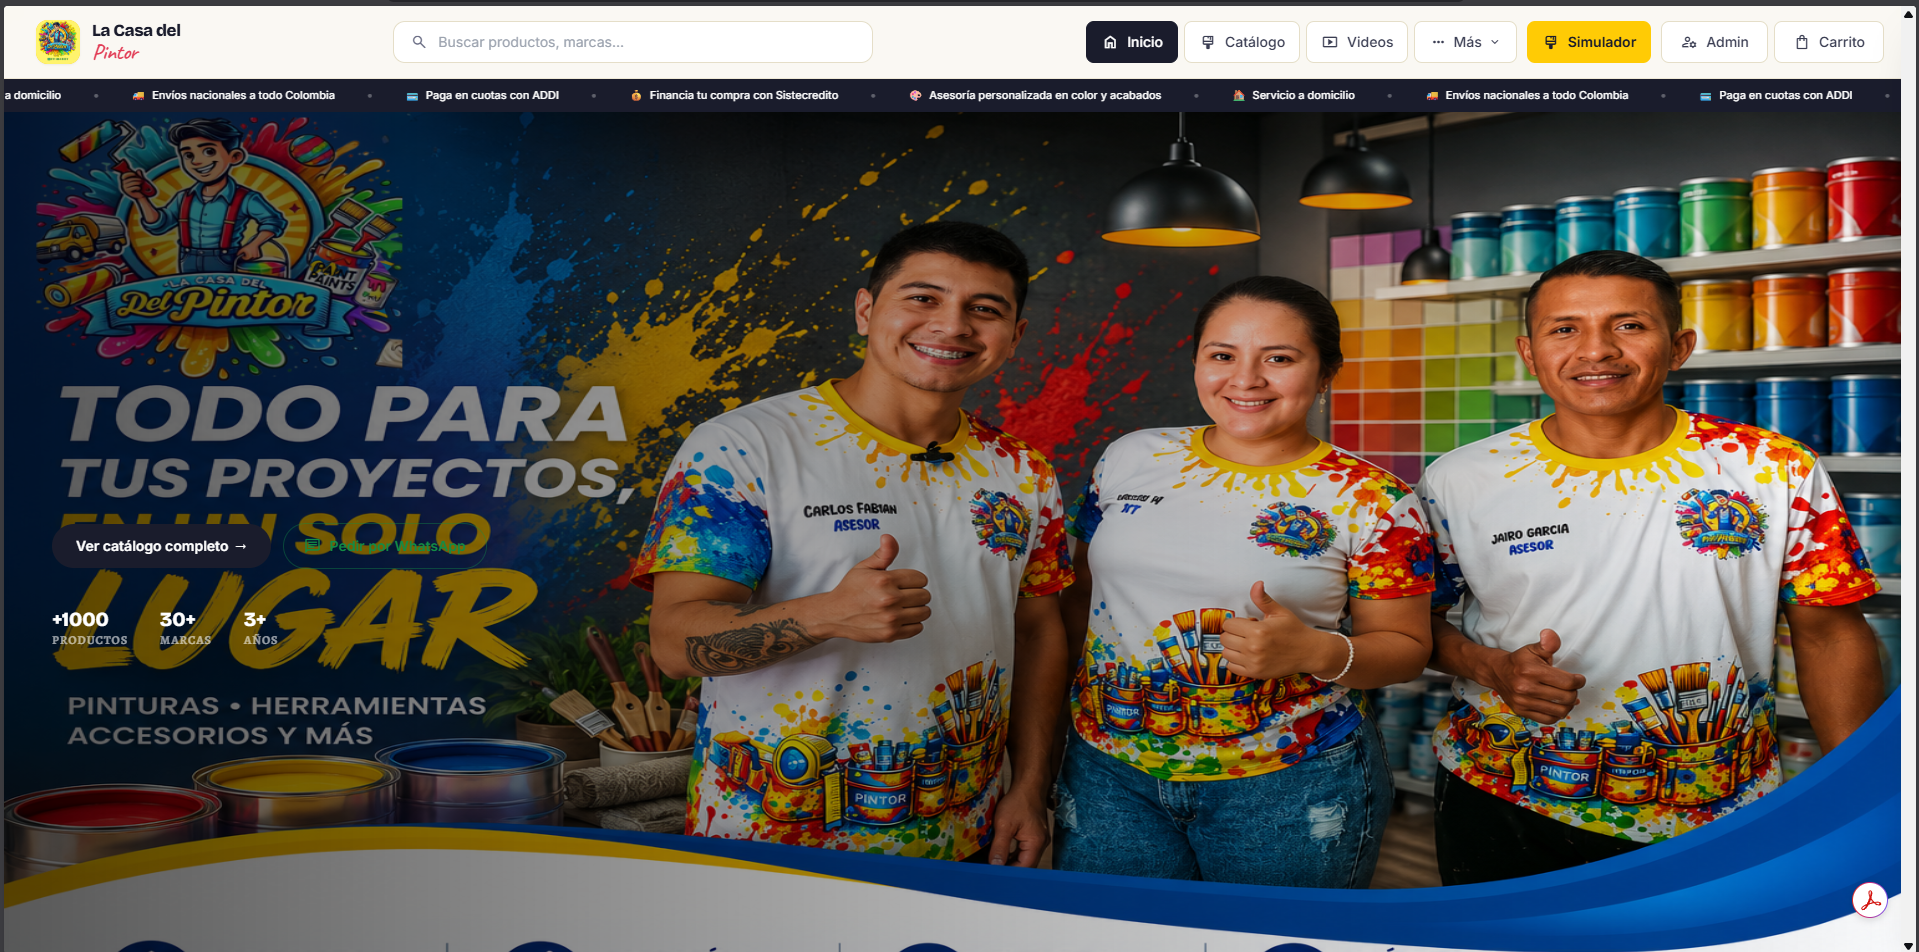
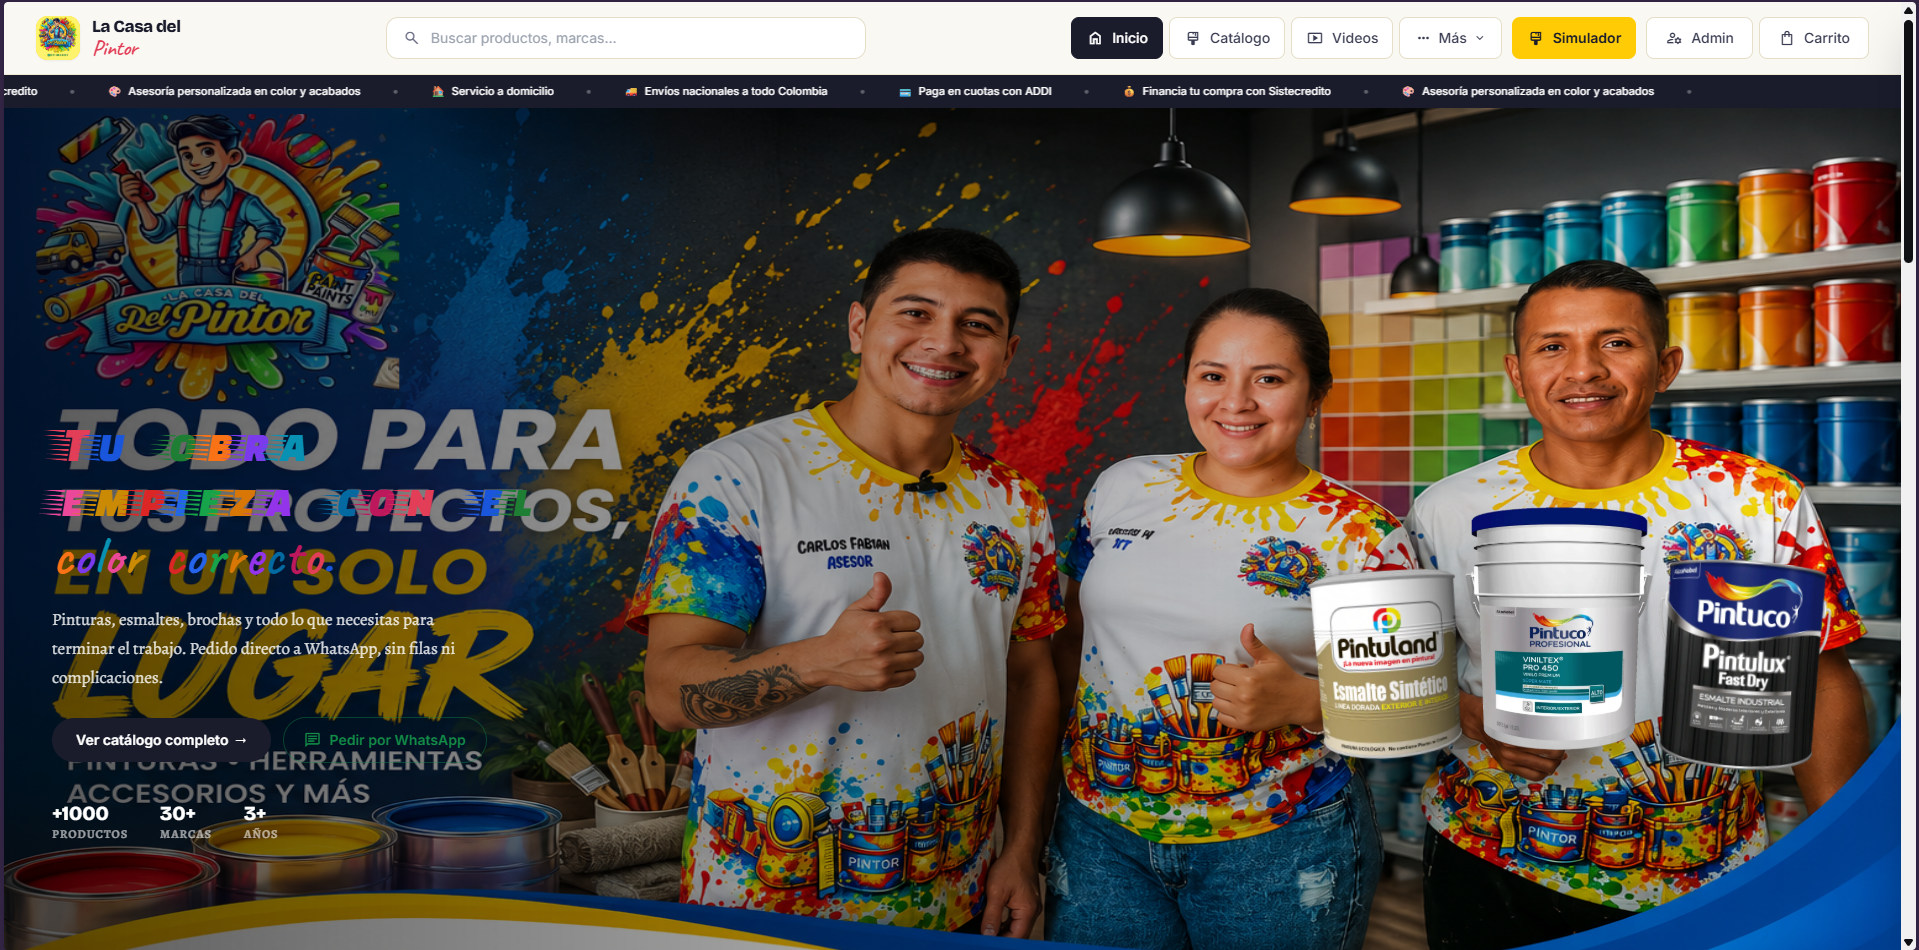
added images

diff --git a/src/app/public/pages/home/components/whatsapp-banner/whatsapp-banner.component.html b/src/app/public/pages/home/components/whatsapp-banner/whatsapp-banner.component.html
@@ -1,78 +1,73 @@
-<!-- ── Asesoría WhatsApp ── -->
-<section class="px-6 pb-12 md:px-10">
-  <div class="mx-auto">
-    <div
-      class="bg-ink rounded-3xl px-10 py-12 md:px-14 flex items-center justify-between gap-10 overflow-hidden relative max-md:flex-col max-md:items-start"
-    >
-      <!-- Content -->
-      <div class="max-w-[520px] z-10">
-        <h2
-          class="font-display font-bold text-white text-[clamp(22px,3vw,34px)] leading-tight mb-2"
-        >
-          ¿Necesitas asesoría para tu proyecto?
-        </h2>
-        <p
-          class="font-hand text-yellow text-[clamp(22px,2.5vw,30px)] leading-none mb-5"
-        >
-          Estamos aquí.
-        </p>
-        <p class="text-white/60 text-[15px] leading-relaxed mb-8 max-w-[420px]">
-          Mándanos una foto del espacio y te recomendamos cantidad, color y
-          producto. Sin compromiso.
-        </p>
-        <a
-          [href]="whatsappHref()"
-          target="_blank"
-          rel="noopener noreferrer"
-          class="inline-flex items-center gap-2.5 bg-[#25D366] hover:bg-[#1fba58] text-white font-display font-bold text-[15px] px-7 py-3.5 rounded-full no-underline transition-all hover:-translate-y-px"
-        >
-          <svg
-            class="w-5 h-5 shrink-0"
-            viewBox="0 0 24 24"
-            fill="currentColor"
-            aria-hidden="true"
-          >
-            <path
-              d="M17.472 14.382c-.297-.149-1.758-.867-2.03-.967-.273-.099-.471-.148-.67.15-.197.297-.767.966-.94 1.164-.173.199-.347.223-.644.075-.297-.15-1.255-.463-2.39-1.475-.883-.788-1.48-1.761-1.653-2.059-.173-.297-.018-.458.13-.606.134-.133.298-.347.446-.52.149-.174.198-.298.298-.497.099-.198.05-.371-.025-.52-.075-.149-.669-1.612-.916-2.207-.242-.579-.487-.5-.669-.51-.173-.008-.371-.01-.57-.01-.198 0-.52.074-.792.372-.272.297-1.04 1.016-1.04 2.479 0 1.462 1.065 2.875 1.213 3.074.149.198 2.096 3.2 5.077 4.487.709.306 1.262.489 1.694.625.712.227 1.36.195 1.871.118.571-.085 1.758-.719 2.006-1.413.248-.694.248-1.289.173-1.413-.074-.124-.272-.198-.57-.347z"
-            />
-            <path
-              d="M12 0C5.373 0 0 5.373 0 12c0 2.136.562 4.14 1.532 5.875L0 24l6.302-1.513A11.947 11.947 0 0012 24c6.627 0 12-5.373 12-12S18.627 0 12 0zm0 21.818a9.818 9.818 0 01-5.001-1.364l-.36-.214-3.732.895.942-3.631-.236-.374A9.818 9.818 0 1112 21.818z"
-            />
-          </svg>
-          Escribir por WhatsApp
-        </a>
-      </div>
+<!-- ── Asesoría WhatsApp ── -->
 
-      <!-- Illustration: paint chips -->
-      <div
-        class="shrink-0 flex items-end gap-3 h-[160px] max-md:hidden"
-        aria-hidden="true"
+<!-- ── DESKTOP: Carlos como fondo absoluto (igual que todos.png en hero) ── -->
+<section class="hidden md:flex relative overflow-hidden min-h-[100dvh] items-center">
+  <img
+    src="assets/images/carlos.jpeg"
+    alt=""
+    class="absolute inset-0 w-full h-full object-fill object-center z-0"
+    aria-hidden="true"
+  />
+  <div class="absolute inset-0 z-[1] pointer-events-none bg-gradient-to-r from-black/80 via-black/60 to-black/20"></div>
+
+  <div class="relative z-10 w-full px-16">
+    <div class="max-w-[500px]">
+      <h2 class="font-display font-bold text-white text-[clamp(26px,3.5vw,42px)] leading-tight mb-3">
+        ¿Necesitas asesoría para tu proyecto?
+      </h2>
+      <p class="font-hand text-yellow text-[clamp(24px,2.8vw,36px)] leading-none mb-6">
+        Estamos aquí.
+      </p>
+      <p class="text-white/70 text-[16px] leading-relaxed mb-10 max-w-[420px]">
+        Mándanos una foto del espacio y te recomendamos cantidad, color y producto. Sin compromiso.
+      </p>
+      <a
+        [href]="whatsappHref()"
+        target="_blank"
+        rel="noopener noreferrer"
+        class="inline-flex items-center gap-2.5 bg-[#25D366] hover:bg-[#1fba58] text-white font-display font-bold text-[16px] px-8 py-4 rounded-full no-underline transition-all hover:-translate-y-px shadow-lg shadow-black/30"
       >
-        <!-- Chip 1 — salmon -->
-        <div
-          class="w-[110px] bg-[#e8b4a0] rounded-2xl p-3 flex flex-col gap-2 -rotate-[6deg] translate-y-4 shadow-xl"
-        >
-          <p class="text-[9px] font-extrabold tracking-wider text-[#c0614a]">
-            PINTUCO
-          </p>
-          <div class="h-8 rounded-lg bg-[#d97060]"></div>
-          <p class="text-[8px] font-mono text-[#8b4030] opacity-80">VK-SAL</p>
-          <div class="h-2 rounded bg-[#d97060]/40"></div>
-          <div class="h-2 rounded bg-[#d97060]/20"></div>
-        </div>
-        <!-- Chip 2 — olive -->
-        <div
-          class="w-[110px] bg-[#9db89a] rounded-2xl p-3 flex flex-col gap-2 rotate-[4deg] shadow-xl"
-        >
-          <p class="text-[9px] font-extrabold tracking-wider text-[#3d6b38]">
-            CORONA
-          </p>
-          <div class="h-8 rounded-lg bg-[#5a8c54]"></div>
-          <p class="text-[8px] font-mono text-[#2d4d28] opacity-80">AVS</p>
-          <div class="h-2 rounded bg-[#5a8c54]/40"></div>
-          <div class="h-2 rounded bg-[#5a8c54]/20"></div>
-        </div>
-      </div>
+        <svg class="w-5 h-5 shrink-0" viewBox="0 0 24 24" fill="currentColor" aria-hidden="true">
+          <path d="M17.472 14.382c-.297-.149-1.758-.867-2.03-.967-.273-.099-.471-.148-.67.15-.197.297-.767.966-.94 1.164-.173.199-.347.223-.644.075-.297-.15-1.255-.463-2.39-1.475-.883-.788-1.48-1.761-1.653-2.059-.173-.297-.018-.458.13-.606.134-.133.298-.347.446-.52.149-.174.198-.298.298-.497.099-.198.05-.371-.025-.52-.075-.149-.669-1.612-.916-2.207-.242-.579-.487-.5-.669-.51-.173-.008-.371-.01-.57-.01-.198 0-.52.074-.792.372-.272.297-1.04 1.016-1.04 2.479 0 1.462 1.065 2.875 1.213 3.074.149.198 2.096 3.2 5.077 4.487.709.306 1.262.489 1.694.625.712.227 1.36.195 1.871.118.571-.085 1.758-.719 2.006-1.413.248-.694.248-1.289.173-1.413-.074-.124-.272-.198-.57-.347z"/>
+          <path d="M12 0C5.373 0 0 5.373 0 12c0 2.136.562 4.14 1.532 5.875L0 24l6.302-1.513A11.947 11.947 0 0012 24c6.627 0 12-5.373 12-12S18.627 0 12 0zm0 21.818a9.818 9.818 0 01-5.001-1.364l-.36-.214-3.732.895.942-3.631-.236-.374A9.818 9.818 0 1112 21.818z"/>
+        </svg>
+        Escribir por WhatsApp
+      </a>
     </div>
   </div>
+</section>
+
+<!-- ── MOBILE: fondo sólido + Carlos como imagen embebida (igual que hero en mobile) ── -->
+<section class="md:hidden bg-ink px-6 py-12 flex flex-col items-center text-center gap-8 min-h-svh justify-center">
+  <div class="flex flex-col items-center gap-5">
+    <h2 class="font-display font-bold text-white text-[clamp(26px,7vw,34px)] leading-tight">
+      ¿Necesitas asesoría para tu proyecto?
+    </h2>
+    <p class="font-hand text-yellow text-[clamp(24px,6vw,30px)] leading-none">
+      Estamos aquí.
+    </p>
+    <p class="text-white/70 text-[15px] leading-relaxed max-w-[340px]">
+      Mándanos una foto del espacio y te recomendamos cantidad, color y producto. Sin compromiso.
+    </p>
+  </div>
+
+  <!-- Carlos como imagen normal, igual que todos.png en mobile del hero -->
+  <img
+    src="assets/images/carlos.jpeg"
+    alt="Carlos, asesor de La Casa del Pintor"
+    class="w-full max-w-sm rounded-2xl shadow-xl"
+  />
+
+  <a
+    [href]="whatsappHref()"
+    target="_blank"
+    rel="noopener noreferrer"
+    class="inline-flex items-center gap-2.5 bg-[#25D366] hover:bg-[#1fba58] text-white font-display font-bold text-[16px] px-8 py-4 rounded-full no-underline transition-all shadow-lg shadow-black/30 w-full justify-center"
+  >
+    <svg class="w-5 h-5 shrink-0" viewBox="0 0 24 24" fill="currentColor" aria-hidden="true">
+      <path d="M17.472 14.382c-.297-.149-1.758-.867-2.03-.967-.273-.099-.471-.148-.67.15-.197.297-.767.966-.94 1.164-.173.199-.347.223-.644.075-.297-.15-1.255-.463-2.39-1.475-.883-.788-1.48-1.761-1.653-2.059-.173-.297-.018-.458.13-.606.134-.133.298-.347.446-.52.149-.174.198-.298.298-.497.099-.198.05-.371-.025-.52-.075-.149-.669-1.612-.916-2.207-.242-.579-.487-.5-.669-.51-.173-.008-.371-.01-.57-.01-.198 0-.52.074-.792.372-.272.297-1.04 1.016-1.04 2.479 0 1.462 1.065 2.875 1.213 3.074.149.198 2.096 3.2 5.077 4.487.709.306 1.262.489 1.694.625.712.227 1.36.195 1.871.118.571-.085 1.758-.719 2.006-1.413.248-.694.248-1.289.173-1.413-.074-.124-.272-.198-.57-.347z"/>
+      <path d="M12 0C5.373 0 0 5.373 0 12c0 2.136.562 4.14 1.532 5.875L0 24l6.302-1.513A11.947 11.947 0 0012 24c6.627 0 12-5.373 12-12S18.627 0 12 0zm0 21.818a9.818 9.818 0 01-5.001-1.364l-.36-.214-3.732.895.942-3.631-.236-.374A9.818 9.818 0 1112 21.818z"/>
+    </svg>
+    Escribir por WhatsApp
+  </a>
 </section>

diff --git a/src/app/public/pages/home/components/new-products/new-products.component.html b/src/app/public/pages/home/components/new-products/new-products.component.html
@@ -1,5 +1,5 @@
 <!-- ── Lo más nuevo ── -->
-<section class="px-6 pb-12 md:px-10">
+<section class="px-6 pb-12 md:px-10 mt-5">
   <div class="mx-auto">
 
     <!-- Header -->
@@ -23,91 +23,87 @@
 
       <!-- Skeletons mientras carga -->
       @if (loading()) {
-        @for (s of skeletons; track $index) {
-          <div class="bg-white border border-rule rounded-2xl overflow-hidden animate-pulse">
-            <div class="bg-white aspect-[4/3]"></div>
-            <div class="p-4 flex flex-col gap-2">
-              <div class="h-2.5 w-16 bg-rule rounded-full"></div>
-              <div class="h-4 w-full bg-rule rounded-full"></div>
-              <div class="h-3 w-24 bg-rule rounded-full"></div>
-            </div>
-          </div>
-        }
+      @for (s of skeletons; track $index) {
+      <div class="bg-white border border-rule rounded-2xl overflow-hidden animate-pulse">
+        <div class="bg-white aspect-[4/3]"></div>
+        <div class="p-4 flex flex-col gap-2">
+          <div class="h-2.5 w-16 bg-rule rounded-full"></div>
+          <div class="h-4 w-full bg-rule rounded-full"></div>
+          <div class="h-3 w-24 bg-rule rounded-full"></div>
+        </div>
+      </div>
+      }
       }
 
       <!-- Productos -->
       @if (!loading()) {
-        @for (product of products(); track product.id; let i = $index) {
-          <a
-            [routerLink]="['/producto', product.id]"
-            class="bg-white border border-rule rounded-2xl overflow-hidden group hover:shadow-lg transition-all duration-200 hover:-translate-y-0.5 no-underline flex flex-col"
-          >
+      @for (product of products(); track product.id; let i = $index) {
+      <a [routerLink]="['/producto', product.id]"
+        class="bg-white border border-rule rounded-2xl overflow-hidden group hover:shadow-lg transition-all duration-200 hover:-translate-y-0.5 no-underline flex flex-col">
 
-            <!-- Imagen / ilustración -->
-            <div class="relative bg-white aspect-[4/3] overflow-hidden flex items-center justify-center">
+        <!-- Imagen / ilustración -->
+        <div class="relative bg-white aspect-[4/3] overflow-hidden flex items-center justify-center">
 
-              <!-- Badge -->
-              <span class="absolute top-3 left-3 z-10 bg-coral text-white text-[10px] font-extrabold tracking-widest uppercase px-2.5 py-1 rounded-md leading-none">
-                Nuevo
-              </span>
+          <!-- Badge -->
+          <span
+            class="absolute top-3 left-3 z-10 bg-coral text-white text-[10px] font-extrabold tracking-widest uppercase px-2.5 py-1 rounded-md leading-none">
+            Nuevo
+          </span>
 
-              @if (firstImage(product)) {
-                <img
-                  [src]="firstImage(product)!"
-                  [alt]="product.name"
-                  class="w-full h-full object-contain transition-transform duration-300 group-hover:scale-105"
-                  loading="lazy"
-                />
-              } @else {
-                <!-- Clipboard placeholder -->
-                <div
-                  class="relative w-[90px] h-[118px] rounded-[8px_8px_13px_13px] shadow-2xl flex flex-col items-center transition-transform duration-300 group-hover:scale-105"
-                  [style.background-color]="clipboardColor(i)"
-                >
-                  <!-- clip -->
-                  <div class="absolute -top-2.5 w-9 h-4 bg-ink/75 rounded-sm"></div>
-                  <!-- inner card -->
-                  <div class="mt-7 mx-2.5 bg-white/95 rounded-md p-2 w-[calc(100%-20px)] flex flex-col gap-1.5">
-                    <p class="text-[7px] font-extrabold tracking-wider text-ink/60 uppercase leading-none">
-                      {{ product.brand.name }}
-                    </p>
-                    <div class="h-4 rounded" [style.background-color]="clipboardColor(i)"></div>
-                    <p class="text-[6px] font-mono text-ink/40 leading-none">
-                      {{ firstSku(product) }}
-                    </p>
-                    <div class="h-1.5 rounded" [style.background-color]="clipboardColor(i)" style="opacity:.35"></div>
-                    <div class="h-1.5 rounded" [style.background-color]="clipboardColor(i)" style="opacity:.18"></div>
-                  </div>
-                </div>
-              }
-            </div>
-
-            <!-- Info -->
-            <div class="p-4 flex flex-col gap-1 flex-1">
-              <p class="text-[10px] font-extrabold tracking-[0.1em] uppercase text-ink-mute leading-none">
+          @if (firstImage(product)) {
+          <img [src]="firstImage(product)!" [alt]="product.name"
+            class="w-full h-full object-contain transition-transform duration-300 group-hover:scale-105"
+            loading="lazy" />
+          } @else {
+          <!-- Clipboard placeholder -->
+          <div
+            class="relative w-[90px] h-[118px] rounded-[8px_8px_13px_13px] shadow-2xl flex flex-col items-center transition-transform duration-300 group-hover:scale-105"
+            [style.background-color]="clipboardColor(i)">
+            <!-- clip -->
+            <div class="absolute -top-2.5 w-9 h-4 bg-ink/75 rounded-sm"></div>
+            <!-- inner card -->
+            <div class="mt-7 mx-2.5 bg-white/95 rounded-md p-2 w-[calc(100%-20px)] flex flex-col gap-1.5">
+              <p class="text-[7px] font-extrabold tracking-wider text-ink/60 uppercase leading-none">
                 {{ product.brand.name }}
               </p>
-              <p class="font-display font-bold text-ink text-[13px] leading-tight line-clamp-2 group-hover:text-coral transition-colors">
-                {{ product.name }}
+              <div class="h-4 rounded" [style.background-color]="clipboardColor(i)"></div>
+              <p class="text-[6px] font-mono text-ink/40 leading-none">
+                {{ firstSku(product) }}
               </p>
-              @if (product.categories.at(0)?.name) {
-                <p class="text-[10px] text-ink-mute leading-none">
-                  {{ product.categories.at(0)!.name }}
-                </p>
-              }
-
-              @if (webPrice(product); as price) {
-                <p class="text-[11px] sm:text-[13px] font-bold text-ink mt-1">
-                  {{ formatPrice(price) }}
-                </p>
-              }
-              <p class="text-[8px] sm:text-[10px] font-semibold text-green-600 mt-0.5 leading-tight">
-                Obtén un descuento y acumula puntos si compras con nosotros
-              </p>
+              <div class="h-1.5 rounded" [style.background-color]="clipboardColor(i)" style="opacity:.35"></div>
+              <div class="h-1.5 rounded" [style.background-color]="clipboardColor(i)" style="opacity:.18"></div>
             </div>
+          </div>
+          }
+        </div>
 
-          </a>
-        }
+        <!-- Info -->
+        <div class="p-4 flex flex-col gap-1 flex-1">
+          <p class="text-[10px] font-extrabold tracking-[0.1em] uppercase text-ink-mute leading-none">
+            {{ product.brand.name }}
+          </p>
+          <p
+            class="font-display font-bold text-ink text-[13px] leading-tight line-clamp-2 group-hover:text-coral transition-colors">
+            {{ product.name }}
+          </p>
+          @if (product.categories.at(0)?.name) {
+          <p class="text-[10px] text-ink-mute leading-none">
+            {{ product.categories.at(0)!.name }}
+          </p>
+          }
+
+          @if (webPrice(product); as price) {
+          <p class="text-[11px] sm:text-[13px] font-bold text-ink mt-1">
+            {{ formatPrice(price) }}
+          </p>
+          }
+          <p class="text-[8px] sm:text-[10px] font-semibold text-green-600 mt-0.5 leading-tight">
+            Obtén un descuento y acumula puntos si compras con nosotros
+          </p>
+        </div>
+
+      </a>
+      }
       }
 
     </div>

diff --git a/src/app/public/pages/home/components/hero/hero.component.html b/src/app/public/pages/home/components/hero/hero.component.html
@@ -3,7 +3,7 @@
   <section
     class="mx-auto flex items-center justify-between gap-10 px-12 py-14 overflow-hidden relative min-h-[110dvh] max-lg:flex-col max-lg:justify-center max-lg:px-8 max-lg:py-12">
     <!-- Imagen de fondo desktop — reemplaza temporalmente el video del backend -->
-    <img src="assets/images/todos.webp" alt="" class="hidden lg:block absolute inset-0 w-full h-full object-fill z-0"
+    <img src="assets/images/todos.png" alt="" class="hidden lg:block absolute inset-0 w-full h-full object-fill z-0"
       aria-hidden="true" />
     <!-- Scrim solo desktop -->
     <div
@@ -87,7 +87,7 @@
 
       <!-- Imagen todos.webp — solo mobile, como elemento normal -->
       <div class="lg:hidden w-full mb-6" aria-hidden="true">
-        <img src="assets/images/todos.webp" alt="Todo para tus proyectos en un solo lugar"
+        <img src="assets/images/todos.png" alt="Todo para tus proyectos en un solo lugar"
           class="w-full rounded-2xl shadow-lg" />
       </div>
 

diff --git a/src/environments/environment.development.ts b/src/environments/environment.development.ts
@@ -1,6 +1,6 @@
 export const environment = {
   production: false,
-  apiUrl: 'https://apidev.lacasadelpintormocoa.com',
-  // apiUrl: 'http://localhost:3000',
+  //apiUrl: 'https://apidev.lacasadelpintormocoa.com',
+  apiUrl: 'http://localhost:3000',
   apiKey: 'sk_dev_lcdp_REEMPLAZAR',
 };

diff --git a/src/environments/environment.ts b/src/environments/environment.ts
@@ -1,6 +1,6 @@
 export const environment = {
   production: false,
-  apiUrl: 'https://apidev.lacasadelpintormocoa.com',
-  // apiUrl: 'http://localhost:3000',
+  //apiUrl: 'https://apidev.lacasadelpintormocoa.com',
+  apiUrl: 'http://localhost:3000',
   apiKey: 'sk_dev_lcdp_REEMPLAZAR',
 };
